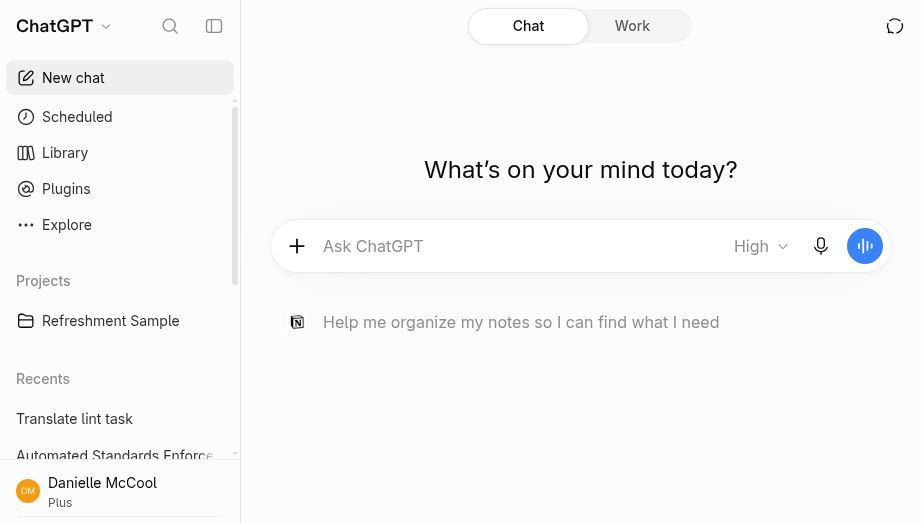
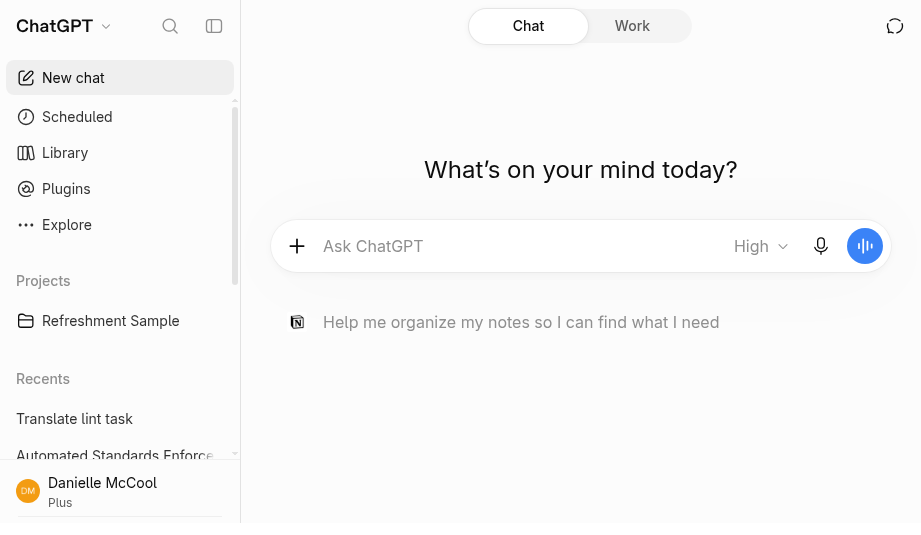
feat(chatgpt-export): spotlight the control to click on each step
Dim the screenshot around the target and outline it with a pulsing ring.
Pad step 1 to the common 921x535 size so the frame does not jump.

diff --git a/chatgpt-export/index.html b/chatgpt-export/index.html
@@ -64,6 +64,7 @@
   .progress span.done { background: var(--accent); }
   figure { margin: 0; }
   .frame {
+    position: relative;
     border: 1px solid var(--line);
     border-radius: 6px;
     overflow: hidden;
@@ -74,8 +75,27 @@
     display: block;
     width: 100%;
     height: 100%;
-    object-fit: contain;
-    object-position: top left;
+  }
+  /* Spotlight: one box per step; its shadow dims everything else */
+  .spot {
+    position: absolute;
+    border-radius: 8px;
+    box-shadow: 0 0 0 200vmax rgba(22, 24, 29, .32);
+    pointer-events: none;
+  }
+  /* Ring: the thing to click */
+  .ring {
+    position: absolute;
+    border: 3px solid var(--accent);
+    border-radius: 8px;
+    box-shadow: 0 0 0 0 rgba(11, 114, 133, .55);
+    animation: pulse 1.8s ease-out infinite;
+    pointer-events: none;
+  }
+  @keyframes pulse {
+    0%   { box-shadow: 0 0 0 0 rgba(11, 114, 133, .55); }
+    70%  { box-shadow: 0 0 0 14px rgba(11, 114, 133, 0); }
+    100% { box-shadow: 0 0 0 14px rgba(11, 114, 133, 0); }
   }
   figcaption {
     font-size: 22px;
@@ -115,9 +135,11 @@
     figcaption { font-size: 19px; min-height: 0; }
     .hint { display: none; }
     main { padding-top: 24px; }
+    .ring { border-width: 2px; }
   }
   @media (prefers-reduced-motion: reduce) {
     .progress span { transition: none; }
+    .ring { animation: none; box-shadow: 0 0 0 4px rgba(11, 114, 133, .25); }
   }
 </style>
 </head>
@@ -131,7 +153,10 @@
     <span></span><span></span><span></span><span></span><span></span><span></span>
   </div>
   <figure>
-    <div class="frame"><img id="shot" src="step-1.png" alt="" width="921" height="535"></div>
+    <div class="frame">
+      <img id="shot" src="step-1.png" alt="" width="921" height="535">
+      <div id="marks" aria-hidden="true"></div>
+    </div>
     <figcaption id="cap"></figcaption>
   </figure>
   <nav aria-label="Steps">
@@ -141,35 +166,54 @@
   </nav>
 </main>
 <script>
+  // Boxes are [x0, y0, x1, y1] in pixels of the 921x535 screenshots.
   const steps = [
-    'Open <b>chatgpt.com</b> and sign in. Click your name at the bottom left of the sidebar and choose <b>Settings</b>.',
-    'Settings opens on General. In the left menu, scroll down and click <b>Data controls</b>.',
-    'Scroll to the bottom of Data controls and click <b>Export</b>, next to Export data.',
-    'Read the notice. The download link goes to your registered email address and expires after 24 hours. Click <b>Confirm export</b>.',
-    'ChatGPT asks you to re-enter your password. You may also have to sign in again and complete two-factor authentication. Then click <b>Continue</b>.',
-    'A green banner confirms the request. The export can take up to about 12 hours to arrive, so watch your inbox for an email from OpenAI with the download link.'
-  ];
-  const alts = [
-    'ChatGPT home screen with the sidebar open and the account name at the bottom left',
-    'Settings page showing the General section, with Data controls in the left menu',
-    'Data controls section scrolled to the bottom, showing the Export data row with an Export button',
-    'Dialog titled Request data export with a Confirm export button',
-    'OpenAI screen asking you to verify by entering your current password',
-    'Data controls with a green banner reading Data export requested'
+    { cap: 'Open <b>chatgpt.com</b> and sign in. Click your name at the bottom left of the sidebar and choose <b>Settings</b>.',
+      alt: 'ChatGPT home screen with the sidebar open and the account name at the bottom left',
+      rings: [[6, 466, 234, 518]] },
+    { cap: 'Settings opens on General. In the left menu, scroll down and click <b>Data controls</b>.',
+      alt: 'Settings page showing the General section, with Data controls in the left menu',
+      rings: [[6, 286, 234, 326]] },
+    { cap: 'Scroll to the bottom of Data controls and click <b>Export</b>, next to Export data.',
+      alt: 'Data controls section scrolled to the bottom, showing the Export data row with an Export button',
+      rings: [[798, 402, 880, 446]] },
+    { cap: 'Read the notice. The download link goes to your registered email address and expires after 24 hours. Click <b>Confirm export</b>.',
+      alt: 'Dialog titled Request data export with a Confirm export button',
+      rings: [[546, 318, 708, 362]] },
+    { cap: 'ChatGPT asks you to re-enter your password. You may also have to sign in again and complete two-factor authentication. Then click <b>Continue</b>.',
+      alt: 'OpenAI screen asking you to verify by entering your current password',
+      rings: [[286, 206, 636, 270], [286, 314, 636, 378]],
+      spot: [286, 206, 636, 378] },
+    { cap: 'A green banner confirms the request. The export can take up to about 12 hours to arrive, so watch your inbox for an email from OpenAI with the download link.',
+      alt: 'Data controls with a green banner reading Data export requested',
+      rings: [[176, 42, 744, 98]] }
   ];
   const img = document.getElementById('shot');
   const cap = document.getElementById('cap');
+  const marks = document.getElementById('marks');
   const n = document.getElementById('n');
   const back = document.getElementById('back');
   const next = document.getElementById('next');
   const bars = document.querySelectorAll('.progress span');
   let i = 0;
 
+  function box(cls, b) {
+    const el = document.createElement('div');
+    el.className = cls;
+    el.style.left = (b[0] / 921 * 100) + '%';
+    el.style.top = (b[1] / 535 * 100) + '%';
+    el.style.width = ((b[2] - b[0]) / 921 * 100) + '%';
+    el.style.height = ((b[3] - b[1]) / 535 * 100) + '%';
+    return el;
+  }
+
   function show(k, push) {
     i = Math.max(0, Math.min(steps.length - 1, k));
+    const s = steps[i];
     img.src = 'step-' + (i + 1) + '.png';
-    img.alt = alts[i];
-    cap.innerHTML = steps[i];
+    img.alt = s.alt;
+    cap.innerHTML = s.cap;
+    marks.replaceChildren(box('spot', s.spot || s.rings[0]), ...s.rings.map(b => box('ring', b)));
     n.textContent = i + 1;
     bars.forEach((b, j) => b.classList.toggle('done', j <= i));
     back.disabled = i === 0;
